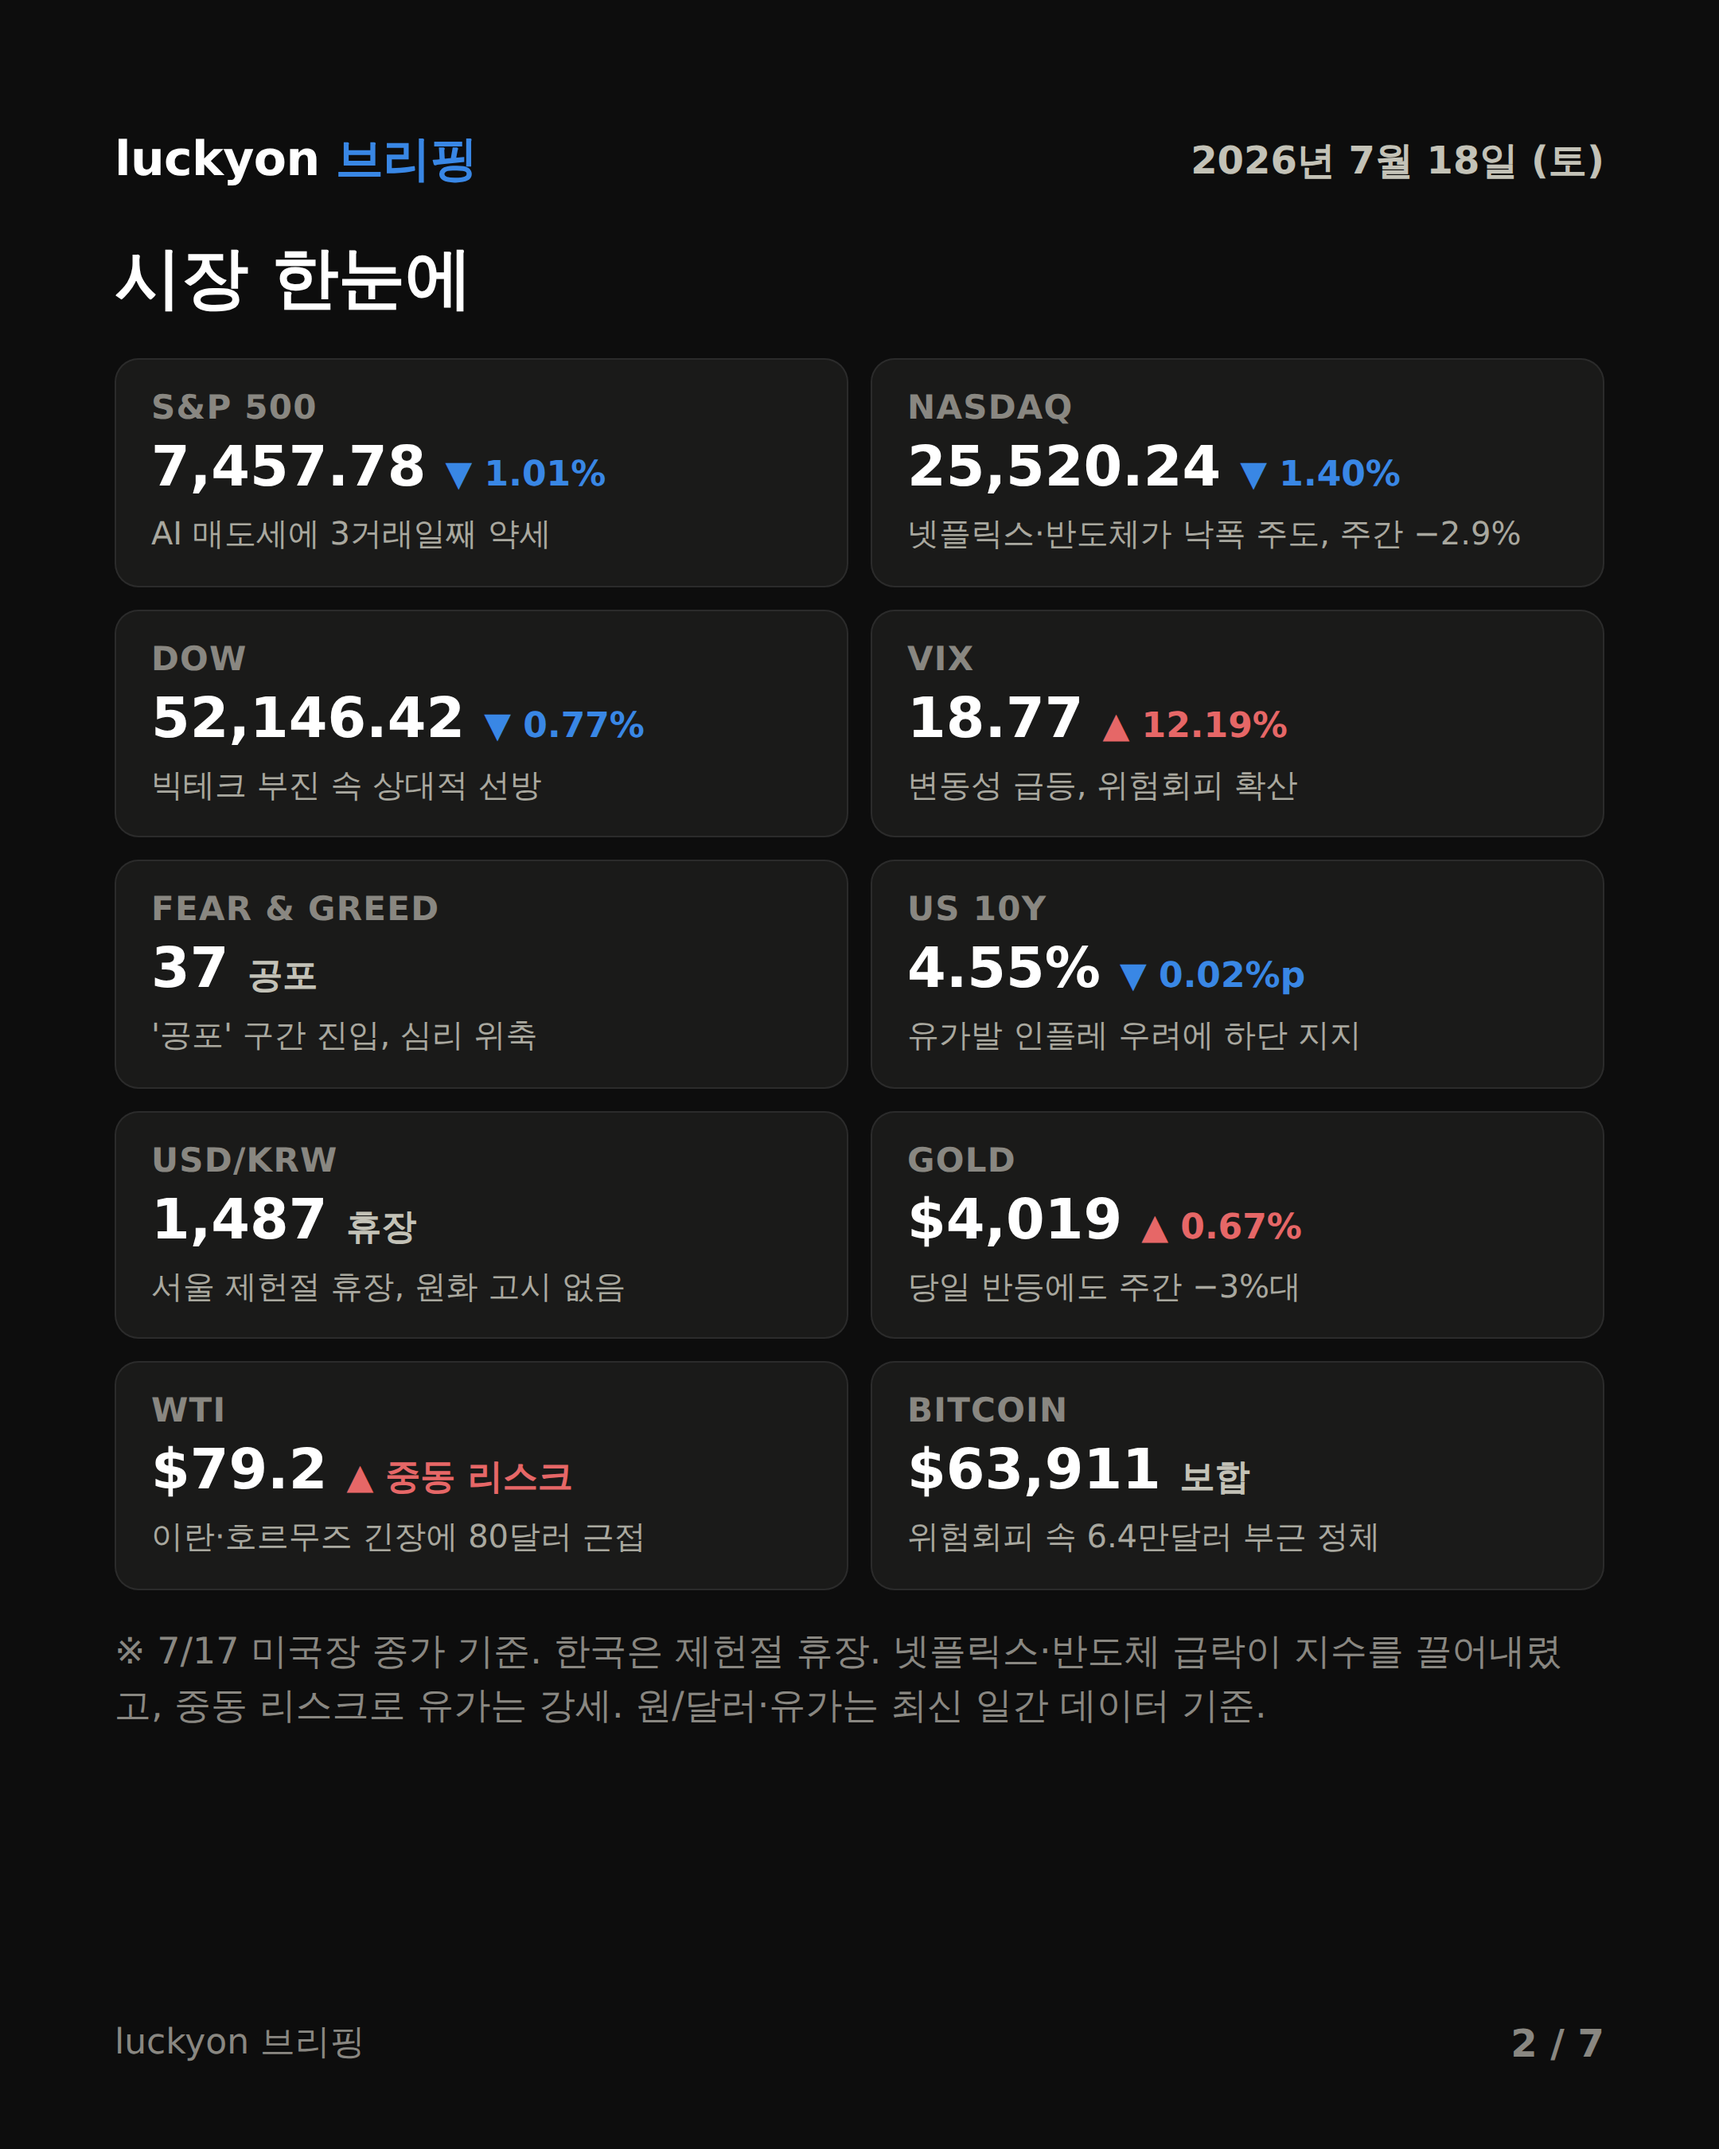
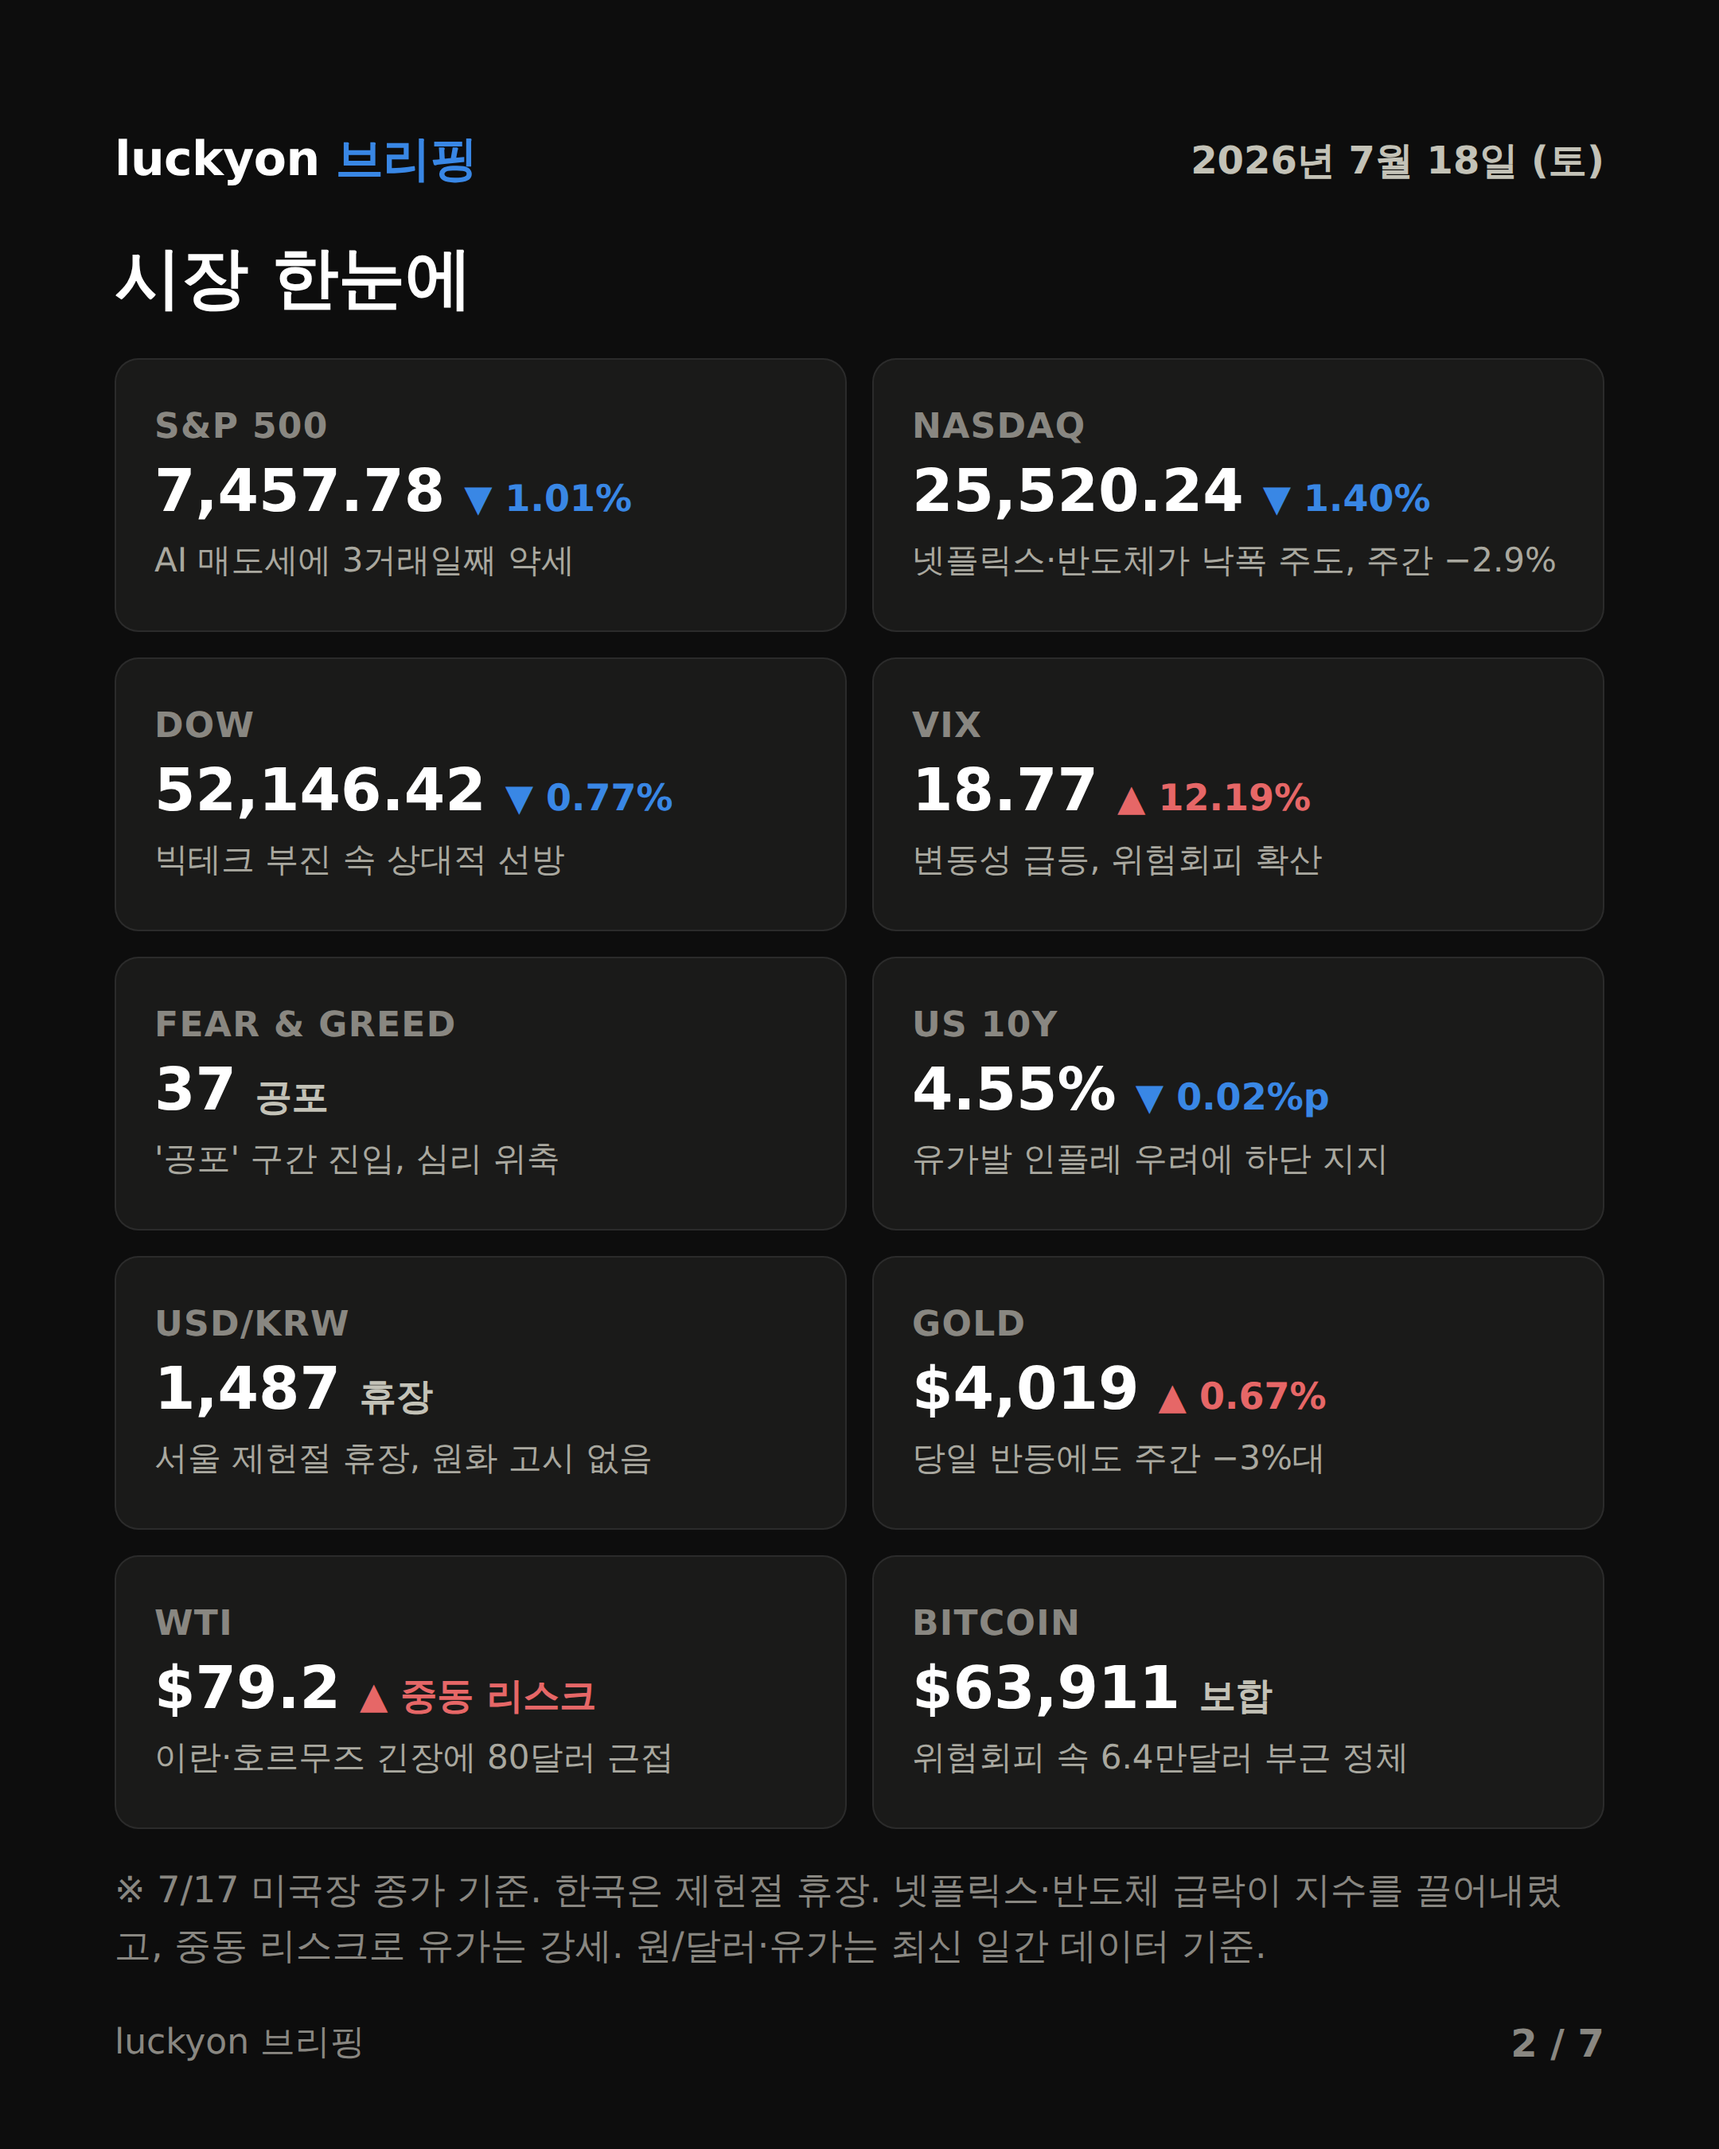
Fill markets grid vertically + codify holiday tile rule
- cardMarkets grid now uses flex:1 with grid-auto-rows:1fr so the 10
  tiles fill the card height evenly instead of leaving a bottom gap;
  tiles center their content. Added bottom margin on the market note so
  it clears the footer.
- ROUTINE_PROMPT.md 3-a: added an explicit holiday rule — never drop a
  tile when a market is closed; keep it (last close as value, delta
  "휴장", dir "flat") and state the reason in the one-line note, so the
  card always holds a consistent 10 tiles.

Claude-Session: https://claude.ai/code/session_01MYWQUAU9yh4neaZo1rYbGq

diff --git a/ROUTINE_PROMPT.md b/ROUTINE_PROMPT.md
@@ -67,6 +67,7 @@
    **3-a. 시장 지표 (markets 10개 타일)** — 세션별로 구성이 다르다:
    - `am`: 미국 3대 지수(마감), VIX, Fear&Greed, 미 10년물 금리, 원/달러, 금, WTI 원유, 비트코인.
    - `pm`: **KOSPI(마감), KOSDAQ(마감), 닛케이 225, S&P 500 선물, 나스닥 선물**, 원/달러(마감), 미 10년물 금리, 금, WTI 원유, 비트코인.
+   - **휴장 처리 (중요)**: 한국·미국 등 해당 시장이 공휴일·주말로 휴장이어도 **타일을 절대 빼지 않는다.** 타일 개수·배치를 항상 10개로 일정하게 유지한다. 휴장 타일은 `value` 에 직전 종가(또는 마지막 고시가)를 그대로 두고, `delta` 는 `"휴장"`, `dir` 은 `"flat"`, 한 줄 해석(`note_ko`/`note_en`)에 사유를 적는다 (예: `"서울 제헌절 휴장, 원화 고시 없음"` / `"No onshore fixing — Seoul holiday"`). 지수 선물처럼 휴장 중에도 거래되는 항목은 정상 표기한다.
 
    **3-b. 뉴스 선별** — 경제/금융 6건, AI/테크 6건을 채운다 (뉴스 카드 4장에 3건씩 배치). 출처가 분명하고 해당 세션의 뉴스 범위(위 표) 안에서 가장 최신을 우선한다.
    - `pm` 세션은 **먼저 `content/<DATE>-am.json` 을 읽고**, 아침 브리핑에서 이미 다룬 뉴스는 제외한다. (파일이 없으면 — 예: 체제 전환 첫날 — `content/` 의 가장 최근 파일을 대신 참고하고, 없는 것 때문에 중단하지 않는다.) 아침 브리핑이 놓쳤던 중요한 뉴스가 있으면 포함하되 해당 항목에 `"catchup": true` 를 넣는다 (카드에 "아침 브리핑 보충" 배지가 붙는다). 낮 시간대에 새 뉴스가 부족한 날은 catchup 뉴스로 채워도 된다. AI 뉴스는 한국 관련 소식(국내 기업·정책·투자)도 적극적으로 살핀다.
